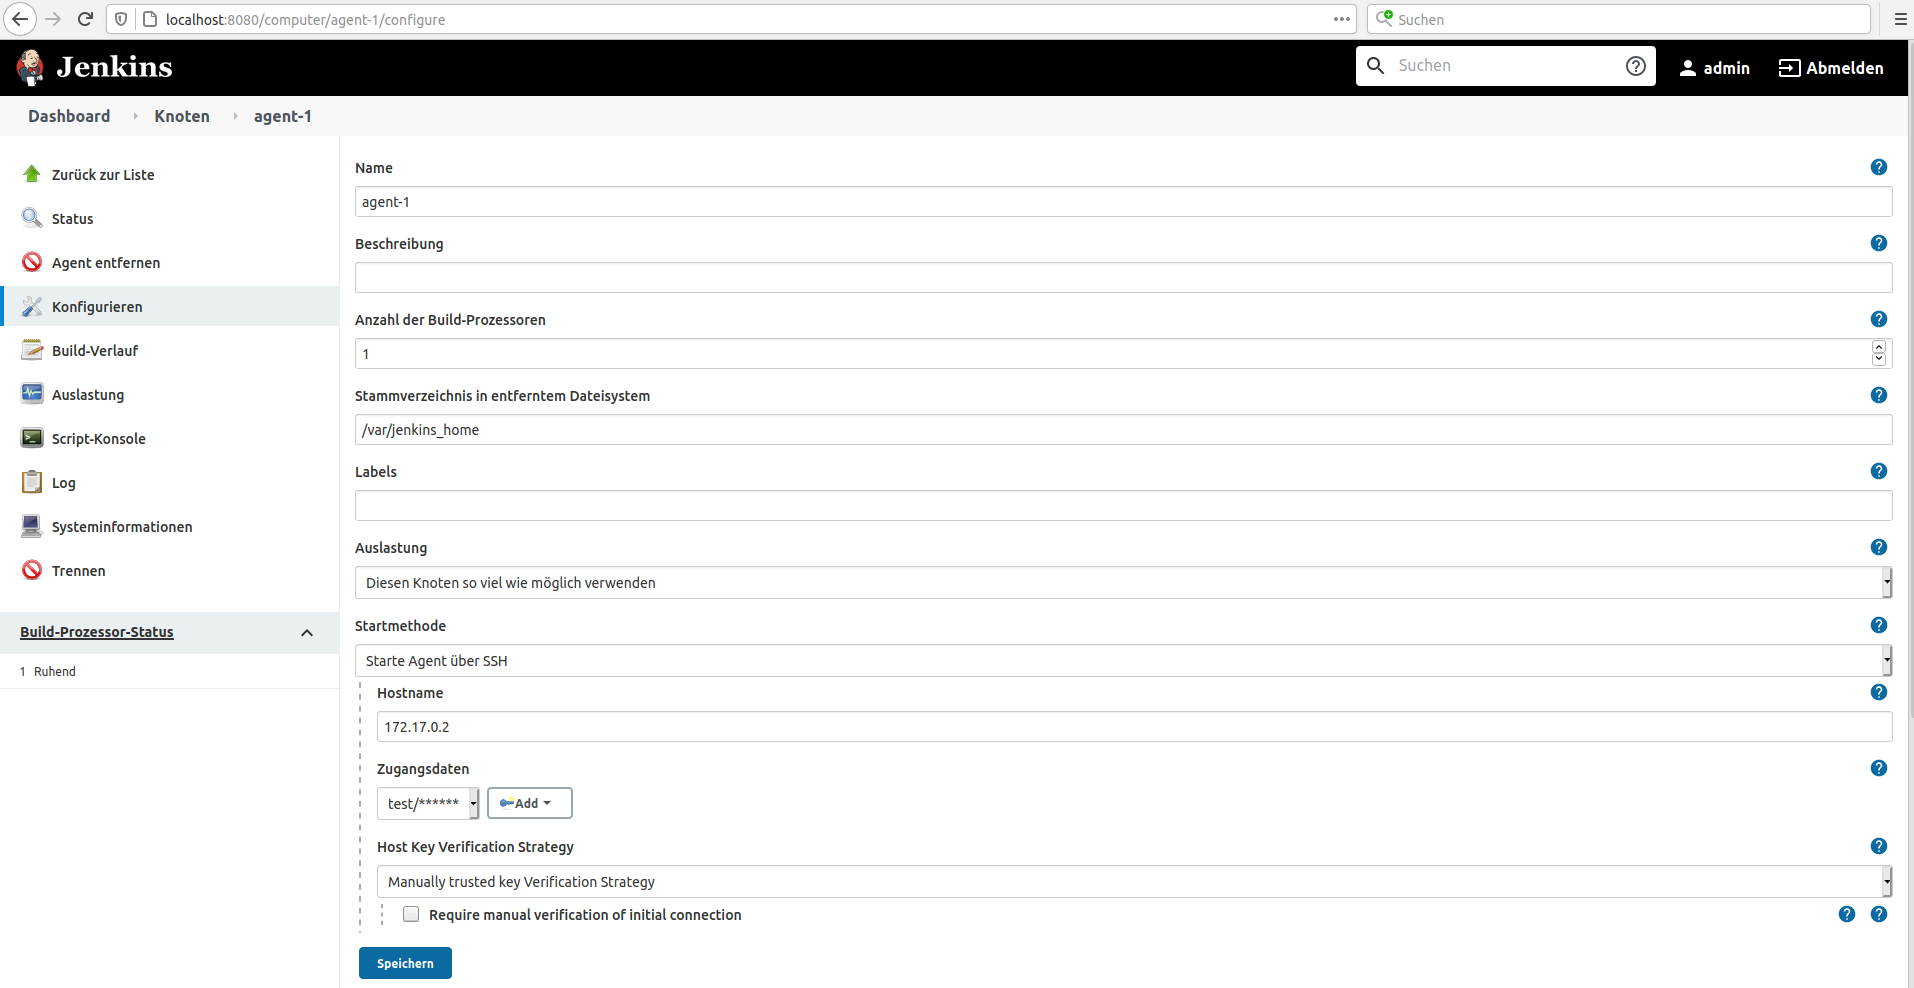
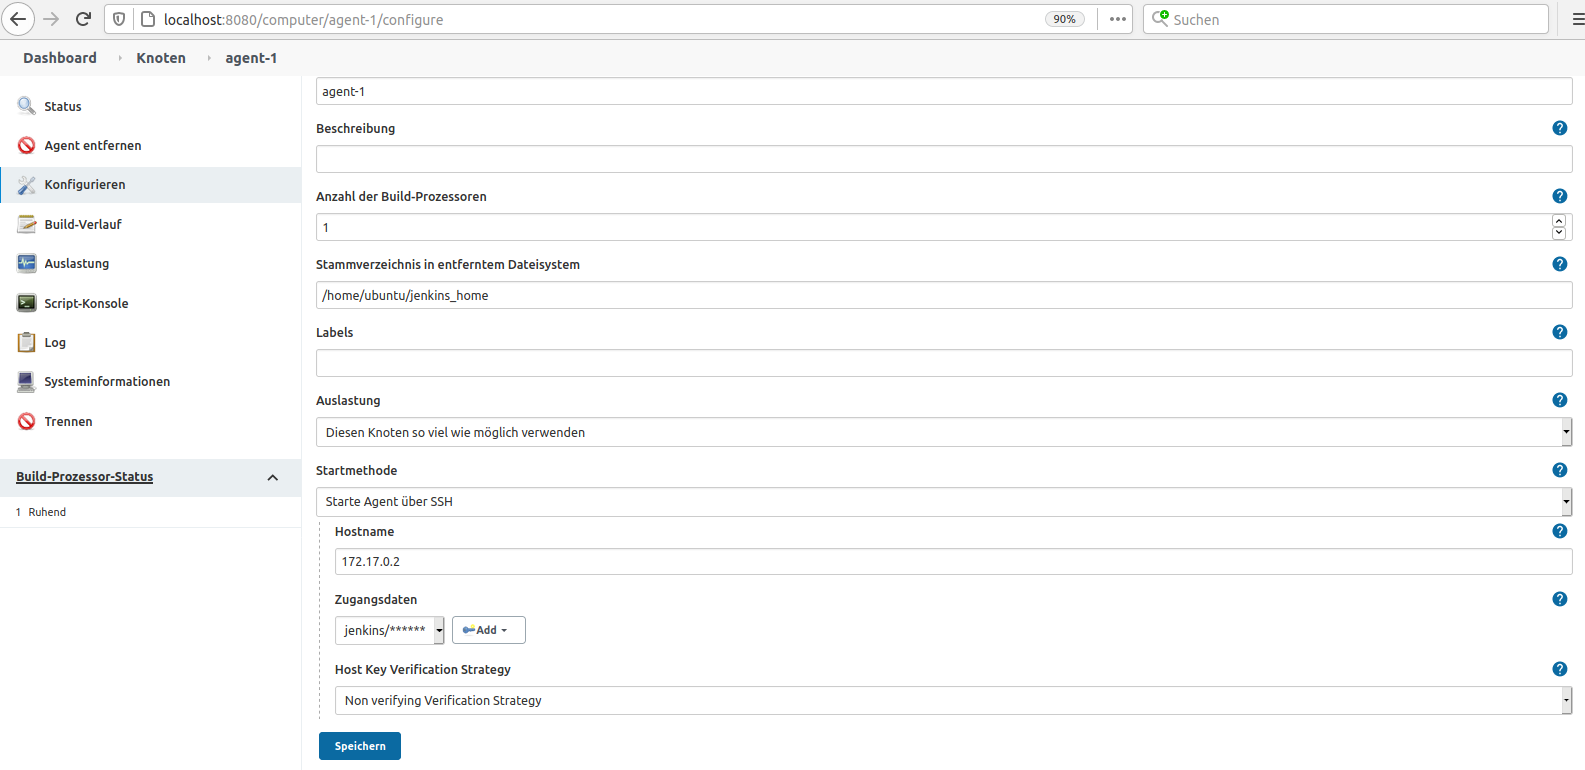
Changed readme.md.

diff --git a/README.md b/README.md
@@ -1,16 +1,24 @@
-#run execute.sh to build and start jenkins_master- and slave-container
+# Introduction
+- This is a testproject for running peass-ci performance-measurements in a jenkins pipeline.
 
-#login to jenkins on http://localhost:8080, user: admin, password: 123
+## run execute.sh to build and start jenkins_master- and slave-container
 
-#create a freestyle-project 
+## login to jenkins on http://localhost:8080:
+- user: admin<br>
+- password: 123
 
-#configure slave-container:
-add new node under localhost:8080/computer/new
-configure like in configure_agent-1.png
-get IP-adress of slave to set for Hostname: docker inspect -f '{{range.NetworkSettings.Networks}}{{.IPAddress}}{{end}}' agent-1
-add credentials: user:test, password: test
+## you should see the seed-job (which is already built at jenkins-startup) and the example, which is built by the seed-job but not built itself yet.
 
-#configure project to be built on agent-1
-in your freestyle-projects configuration -> "Restrict where this project can be run" -> agent-1 (the name, you gave your node)
+## configure slave-container as build-node:
+- add new node under:<br>
+    localhost:8080/computer/new<br>
+- configure like in configure_agent-1.png<br>
+- get IP-adress of slave to set for Hostname:<br>
+    docker inspect -f '{{range.NetworkSettings.Networks}}{{.IPAddress}}{{end}}' agent-1<br>
+- add credentials:<br>
+    user: jenkins<br>
+    password: jenkins
 
+## configure example-project to be built on agent-1
+- in example-projects configuration -> "Restrict where this project can be run" -> agent-1 (the name, you gave your node)
 
